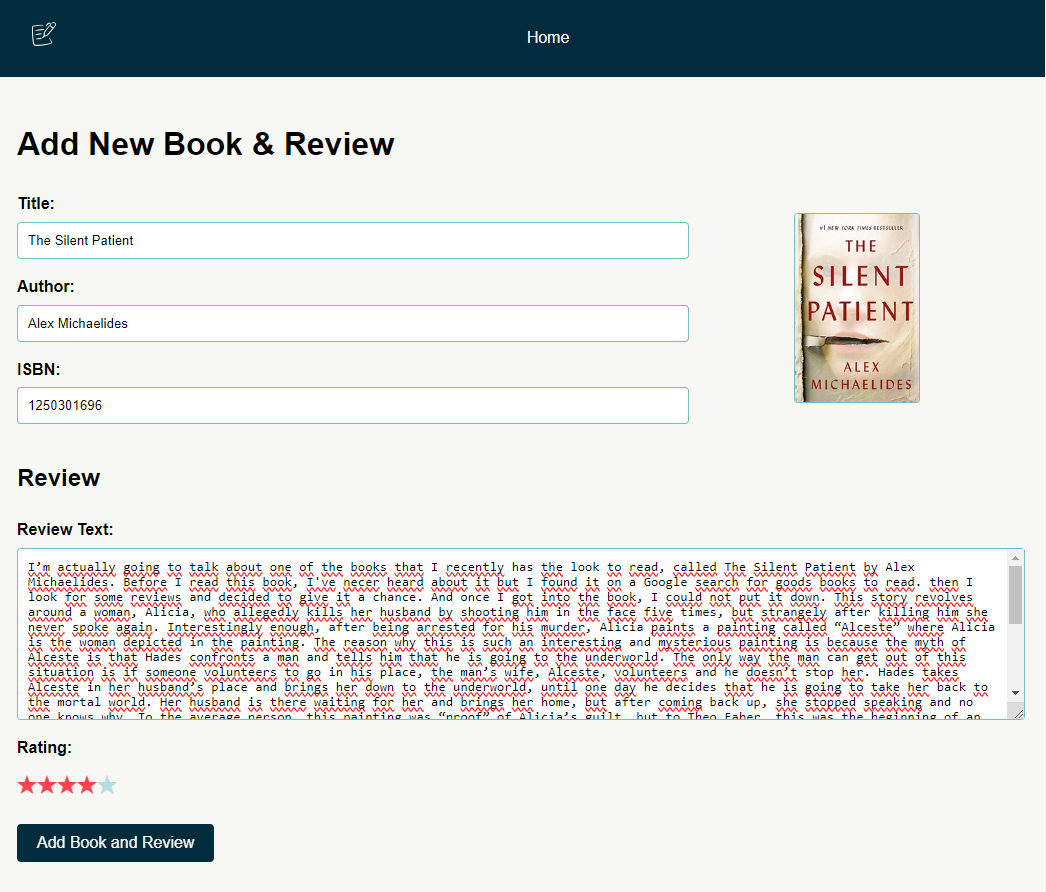
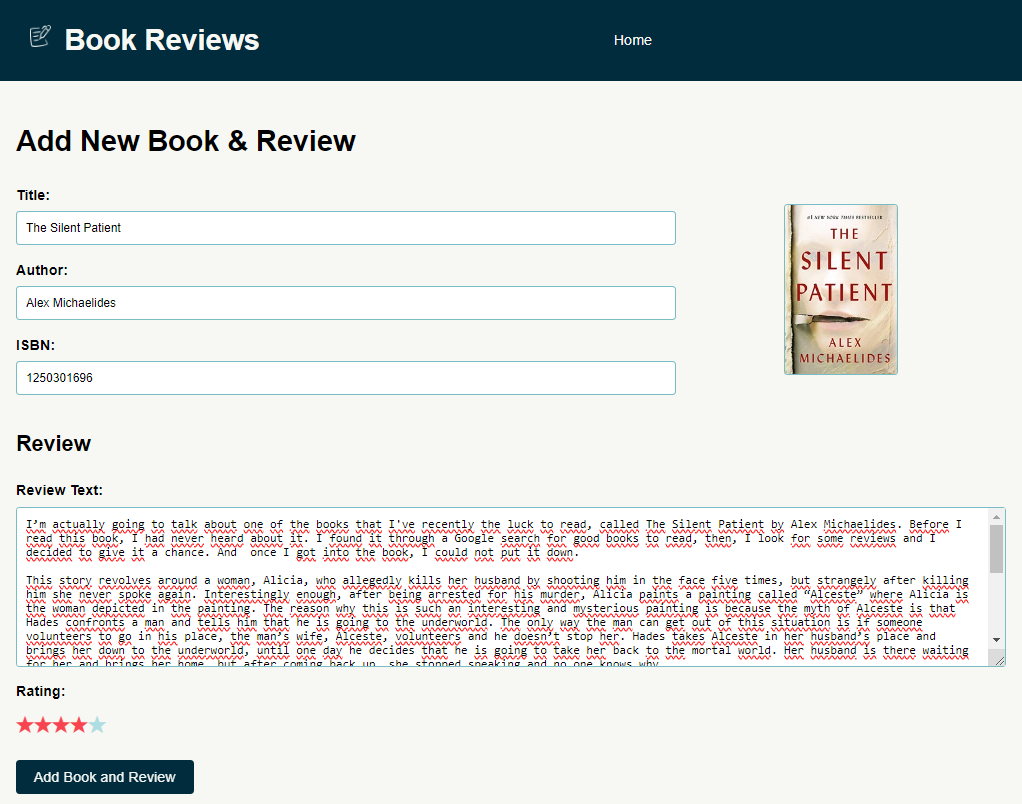
Added a search and pagination. Site title realocated to the navbar

diff --git a/public/styles/main.css b/public/styles/main.css
@@ -50,6 +50,19 @@ header, footer {
     flex-shrink: 0; /* Prevents shrinking */
 }
 
+/* Flex container for the leftmost icon */
+.nav-title {
+    flex-shrink: 0; /* Prevents shrinking */
+    margin: 0px;
+    padding: 0px;
+}
+
+.nav-title h1 {
+    font-size: 2em;
+    margin: 0px;
+    padding: 0px;
+}
+
 /* Flex container for navigation links */
 .nav-center {
     flex: 1; /* Allows centering */
@@ -148,9 +161,6 @@ main {
 .book-details p {
     margin: 0;
     word-wrap: break-word;
-    /* overflow: hidden; 
-    text-overflow: ellipsis;
-    white-space: nowrap;  */
 }
 
 .book-details > .book-author {
@@ -369,4 +379,83 @@ main {
 }
 
 /*#endregion AddBookStyles & EditBookStyles */
+
+/*#region SearchSortFormStyles */
+.search-sort-form {
+    margin: 20px 0;
+    display: flex;
+    align-items: center;
+    gap: 10px;
+}
+
+.search-sort-container {
+    display: flex;
+    align-items: center;
+    gap: 15px;
+}
+
+.search-sort-container label {
+    margin-right: 10px;
+}
+
+.search-sort-container select {
+    padding: 10px;
+    border: 1px solid #ddd;
+    border-radius: 4px;
+}
+
+.search-sort-container input[type="text"] {
+    padding: 10px;
+    border: 1px solid #ddd;
+    border-radius: 4px;
+    flex: 1; /* Takes up available space */
+}
+
+.search-sort-container button {
+    background-color: #002C3E; /* Dark blue background */
+    color: #F7F8F3; /* Light text color */
+    border: none;
+    padding: 10px 20px;
+    border-radius: 4px;
+    cursor: pointer;
+    font-size: 16px;
+    transition: background-color 0.3s, color 0.3s;
+}
+
+.search-sort-container button:hover {
+    background-color: #78BCC4; /* Light blue background on hover */
+    color: #002C3E; /* Dark text color on hover */
+}
+
+/*#endregion SearchSortFormStyles */
+
+/*#region PaginationStyles */
+.pagination {
+    display: flex;
+    justify-content: center;
+    margin: 20px 0;
+}
+
+.page-link {
+    display: inline-block;
+    padding: 10px 15px;
+    margin: 0 5px;
+    border: 1px solid #ddd;
+    border-radius: 4px;
+    color: #002C3E;
+    text-decoration: none;
+}
+
+.page-link.active {
+    background-color: #002C3E;
+    color: #F7F8F3;
+    border-color: #002C3E;
+}
+
+.page-link:hover {
+    background-color: #78BCC4;
+    color: #002C3E;
+}
+/*#endregion PaginationStyles */
+
 

diff --git a/index.js b/index.js
@@ -41,12 +41,17 @@ app.set('views', path.join(__dirname, 'views'));
 // GET all books with their reviews
 app.get('/', async (req, res) => {
     const sort = req.query.sort || 'title';
+    const search = req.query.search ? `%${req.query.search}%` : '%';
+    const page = parseInt(req.query.page, 12) || 1; // Default to page 1 if not provided
+    const pageSize = 12; // Number of books per page
+
+    const offset = (page - 1) * pageSize; // Calculate the offset for pagination
 
     let sortQuery = 'ORDER BY title ASC';
     if (sort === 'rating') {
         sortQuery = 'ORDER BY rating DESC';
     } else if (sort === 'recency') {
-        sortQuery = 'ORDER BY created_at DESC'; // Assuming you have a created_at column
+        sortQuery = 'ORDER BY created_at DESC';
     }
 
     try {
@@ -54,11 +59,29 @@ app.get('/', async (req, res) => {
             SELECT books.id, books.title, books.author, books.cover_url, reviews.rating, books.deletable 
             FROM books
             LEFT JOIN reviews ON books.id = reviews.book_id
+            WHERE books.title ILIKE $1 OR books.author ILIKE $1
             ${sortQuery}
-        `);
-        const books = booksResult.rows;
+            LIMIT $2 OFFSET $3
+        `, [search, pageSize, offset]);
 
-        res.render('index', { books, sort, currentPage: 'home' });
+        // Fetch total number of books for pagination
+        const countResult = await pool.query(`
+            SELECT COUNT(*) AS total
+            FROM books
+            WHERE title ILIKE $1 OR author ILIKE $1
+        `, [search]);
+
+        const books = booksResult.rows;
+        const totalBooks = parseInt(countResult.rows[0].total, 10);
+        const totalPages = Math.ceil(totalBooks / pageSize);
+
+        res.render('index', { 
+            books, 
+            sort, 
+            search: req.query.search || '', 
+            currentPage: page,
+            totalPages
+         });
     } catch (err) {
         console.error(err);
         res.status(500).send('Server error');
